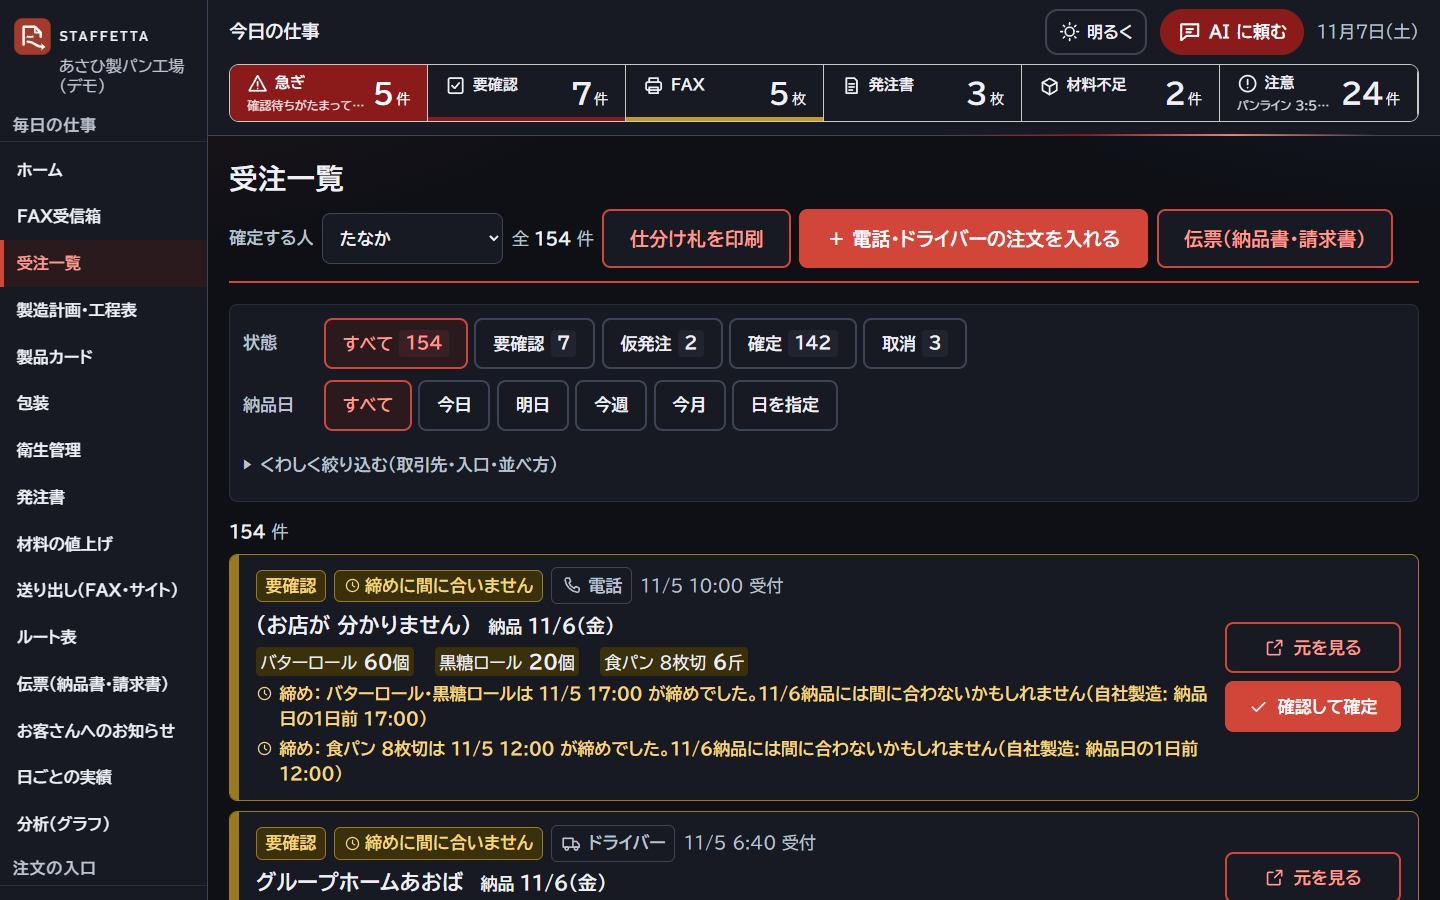
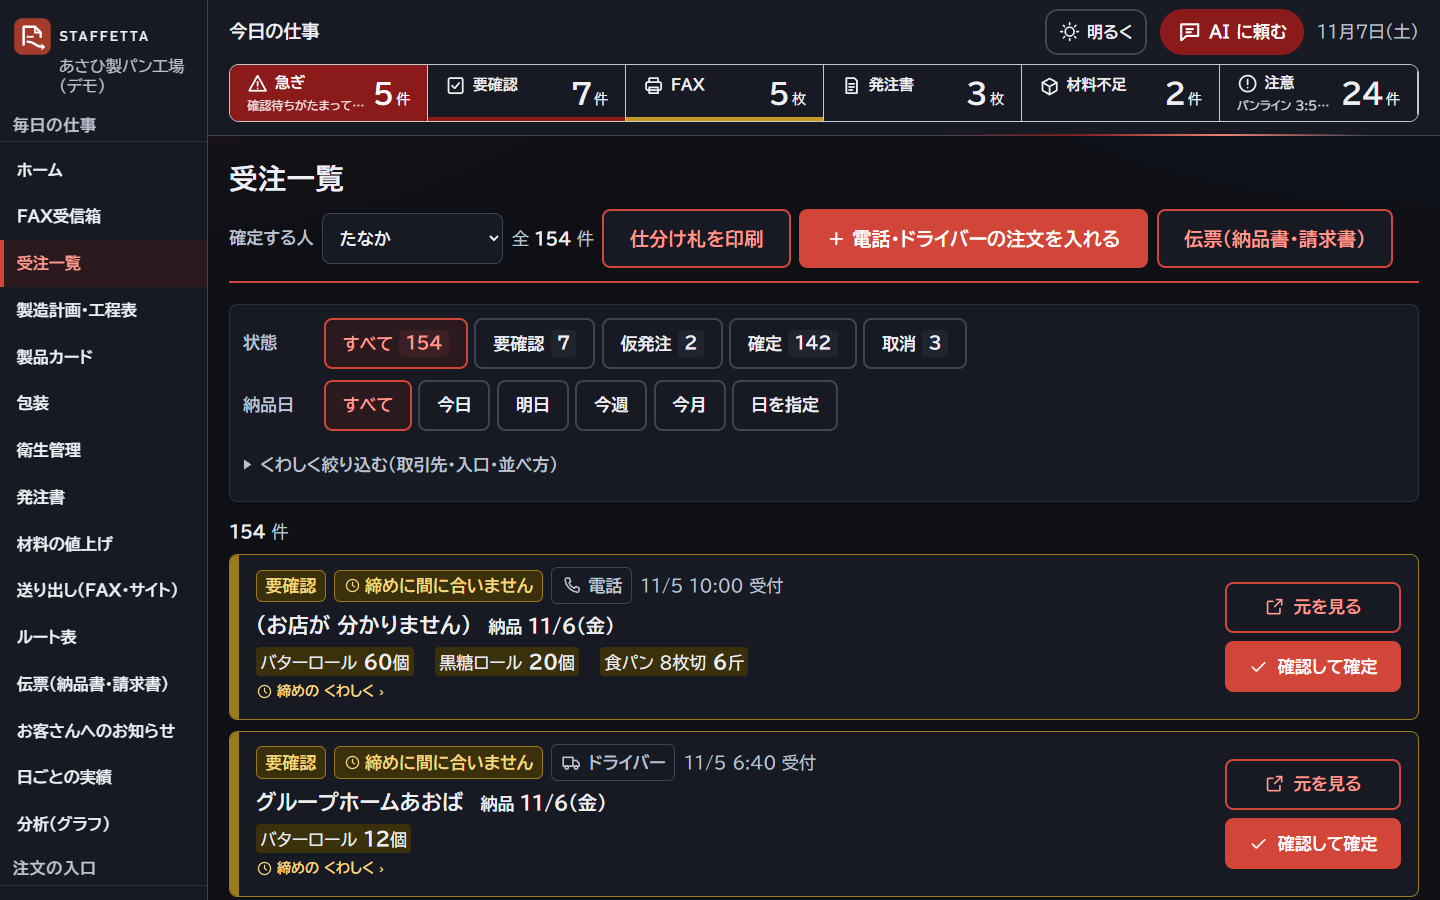
受注一覧のカード（⑧・管理役2 11/7）: パソコンでも締めの文（「締め: ◯◯は 11/5 17:00 が締めでした…」）と締めだけの注文の案を、「締めの くわしく ›」を押したときだけ出す（上の札「締めに間に合いません」で分かる）

Changed region(s): [[0.1562, 0.6533, 1.0, 1.0], [0.5, 0.9333, 0.5625, 0.9644]]

diff --git a/src/app/orders/OrdersClient.tsx b/src/app/orders/OrdersClient.tsx
@@ -317,6 +317,12 @@ function OrderRow({
               );
             })}
           </ul>
+          {/* ⑧ 11/7 パソコンも文字を減らす: 締めの文は「くわしく」を押したときだけ（上の札「締めに間に合いません」で分かる） */}
+          {!off && (lead.length > 0 || (alt && alt.length > 0)) && (
+          <details className="mt-1 max-md:hidden">
+            <summary className="inline-flex cursor-pointer list-none items-center gap-1 text-[14px] font-bold text-review-ink after:!hidden [&::-webkit-details-marker]:hidden">
+              <Icon.clock className="h-4 w-4 shrink-0" />締めの くわしく ›
+            </summary>
           {!off &&
             // 商品名だけが違う同じ文（「○○の締め 11/5 11:00 を過ぎています…」）は、商品名を「・」でつないで1行にまとめる
             (() => {
@@ -352,6 +358,8 @@ function OrderRow({
                 ))}
               </ul>
             </div>
+          )}
+          </details>
           )}
           {typeof x.notes === "string" && x.notes && <div className="mt-1 text-sm text-ink-soft">メモ：{x.notes}</div>}
           {typeof x.readError === "string" && x.readError && (
